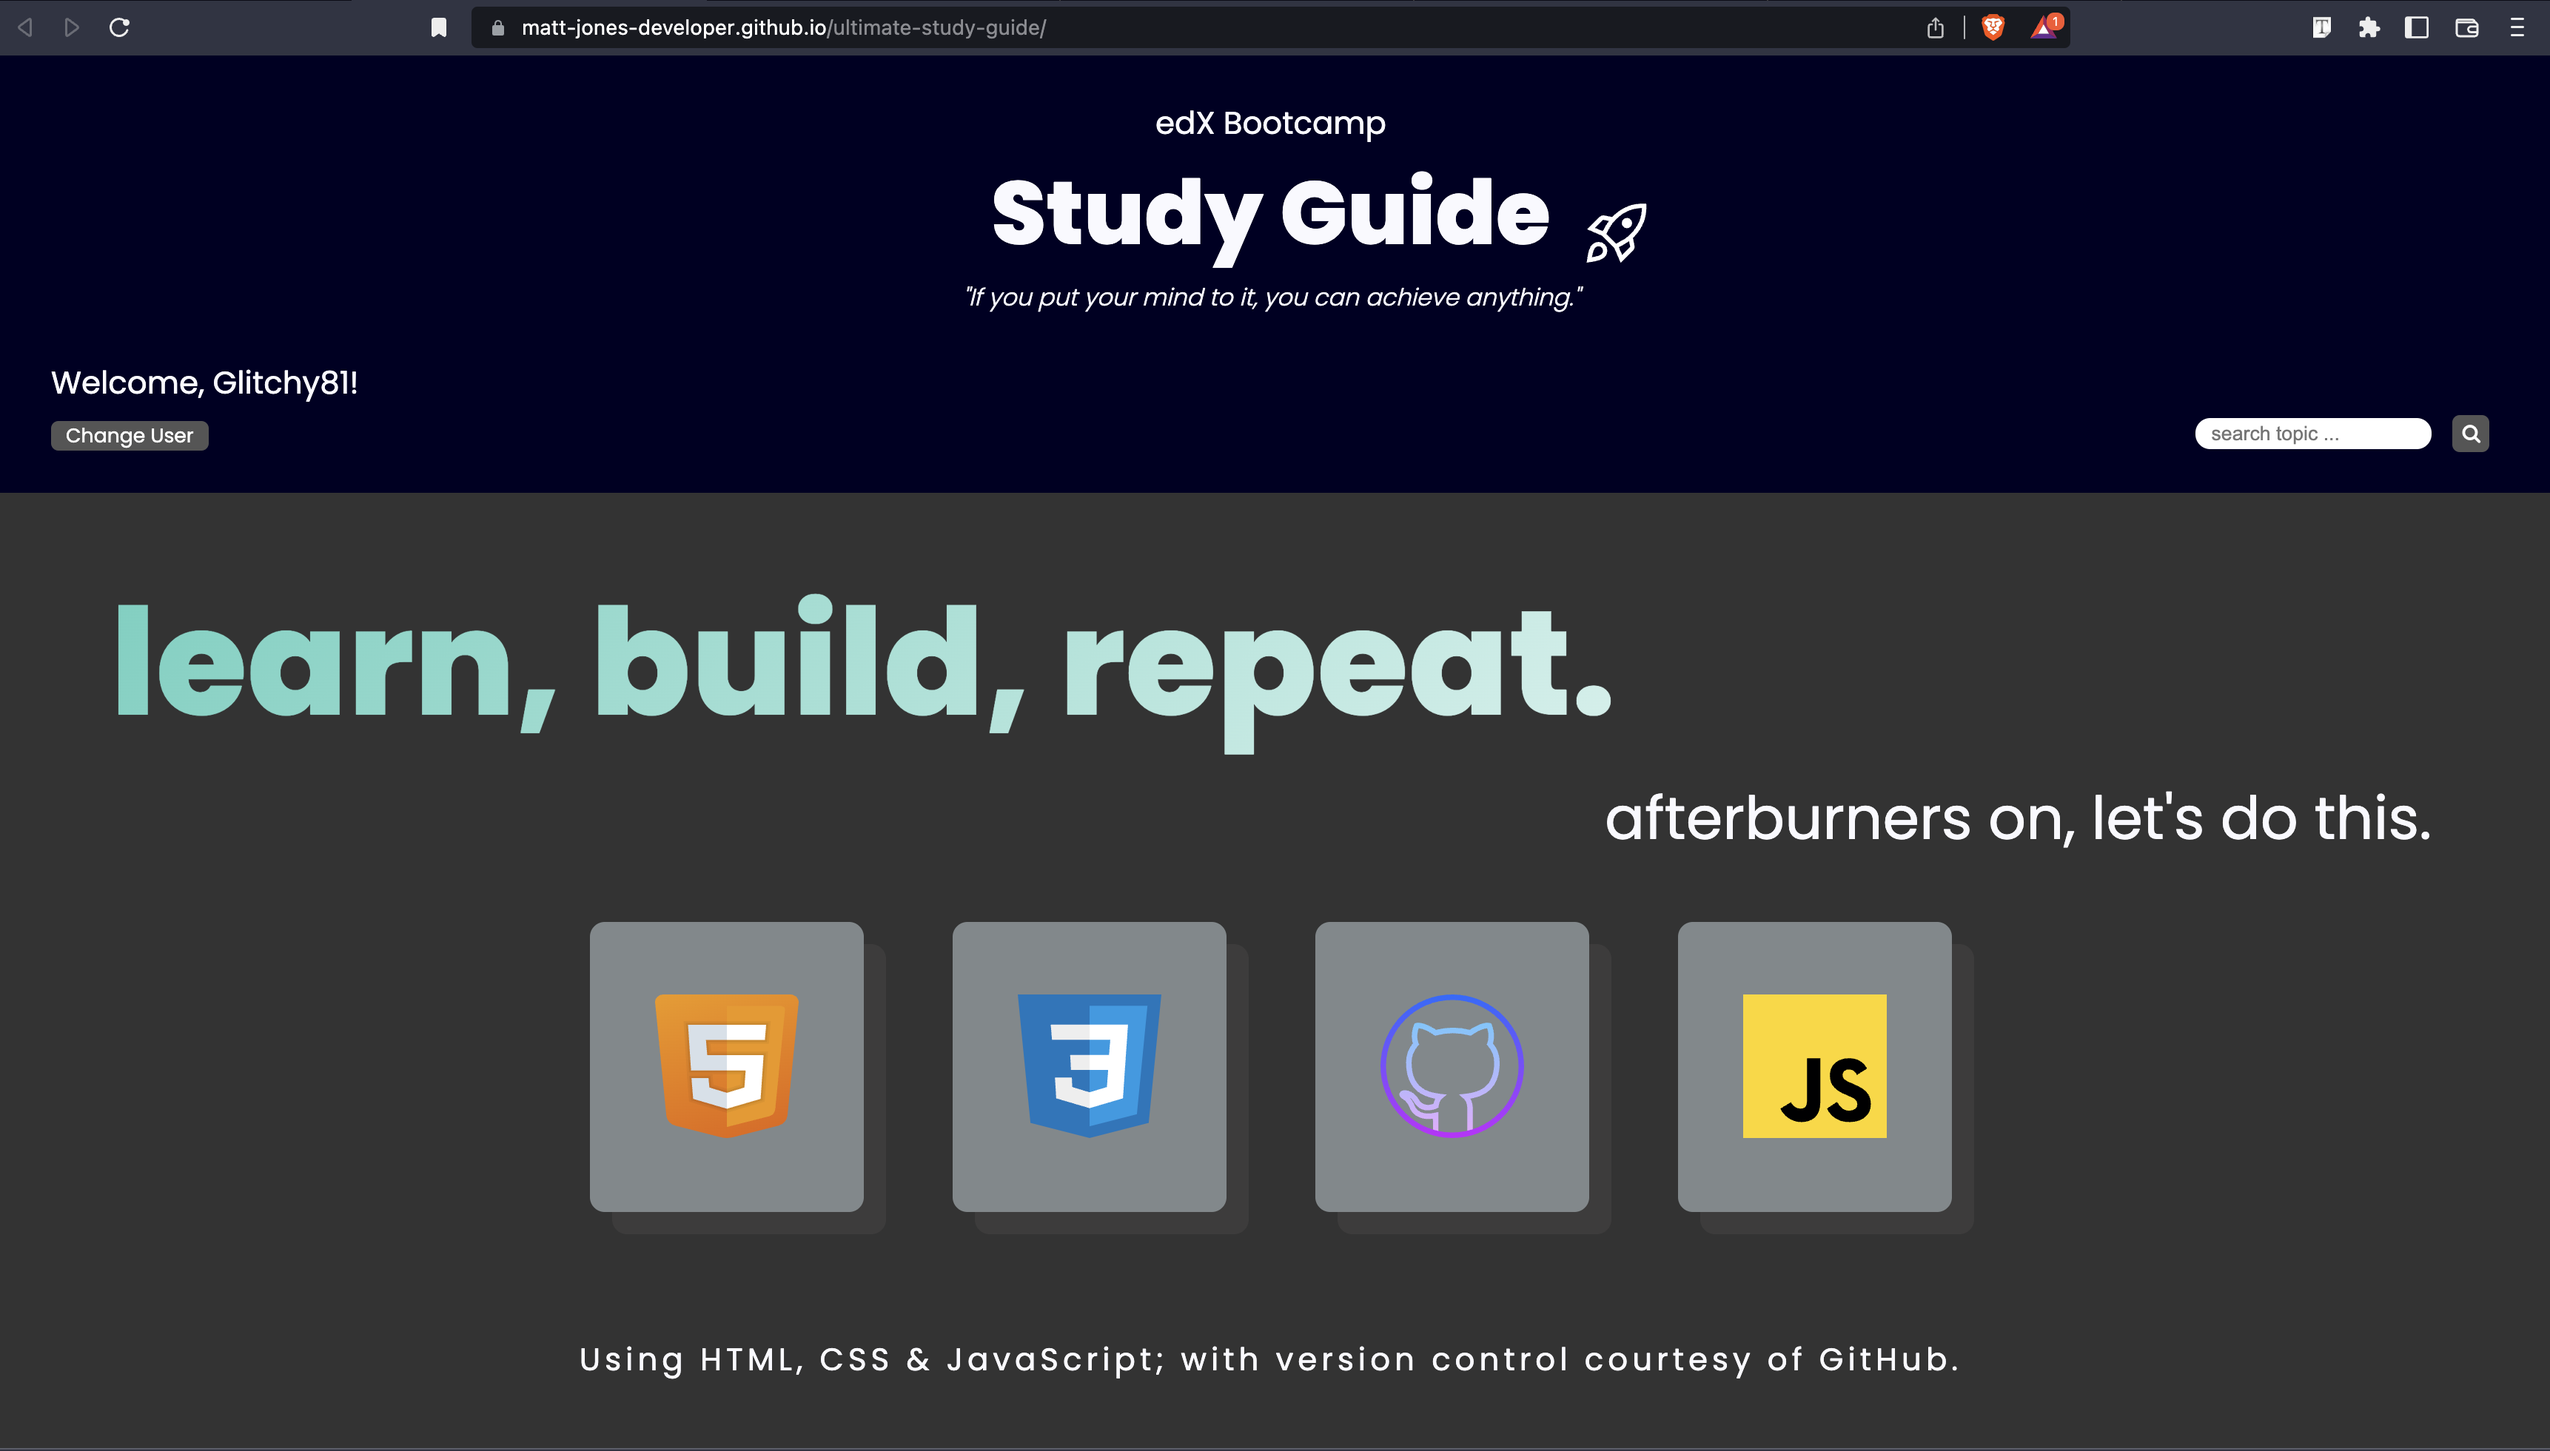
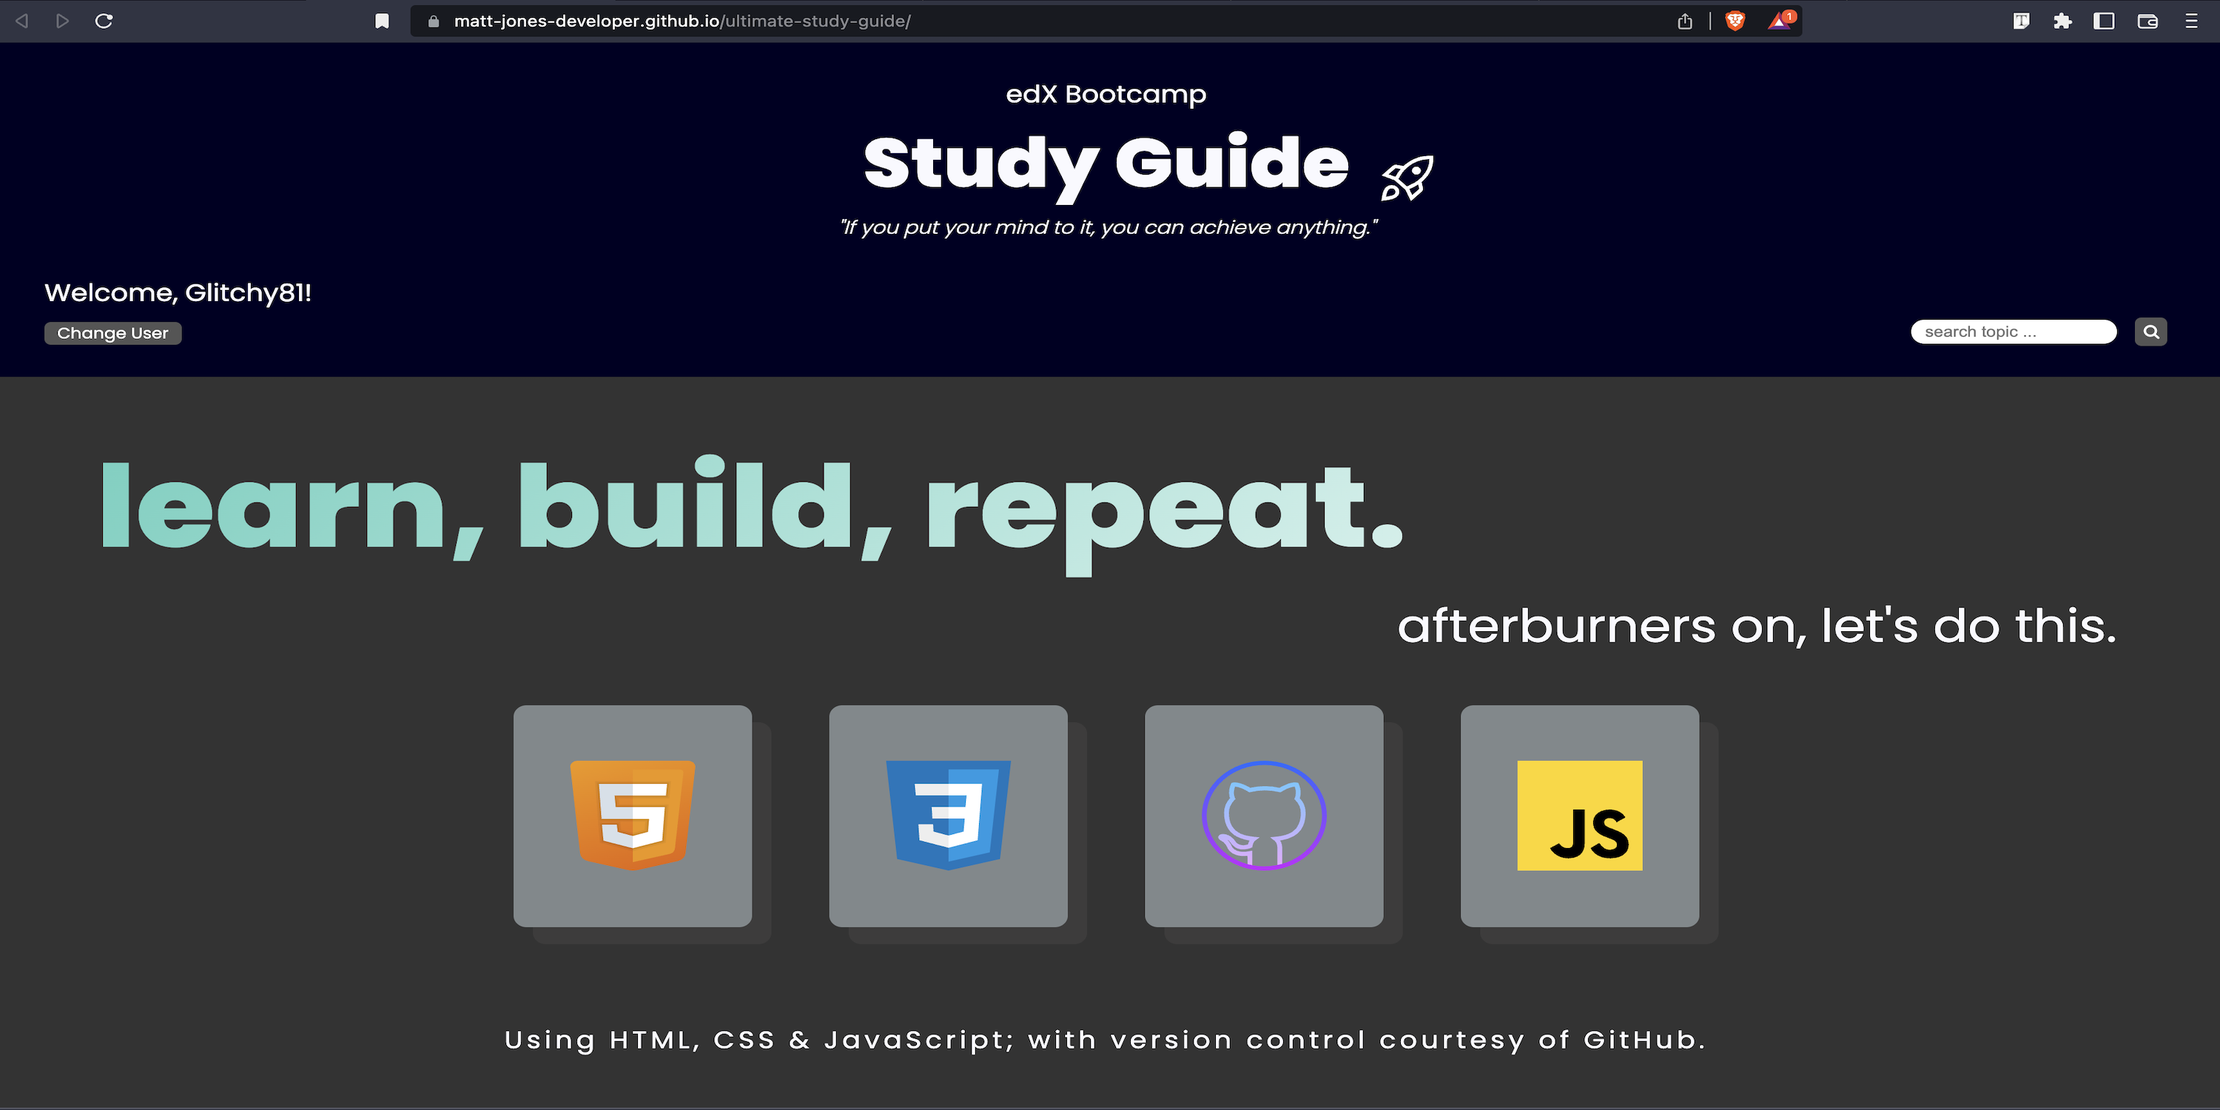
changed image sizes for the cards and started to add the cards for projects page

diff --git a/index.html b/index.html
@@ -332,91 +332,142 @@
                 </div>
                 <!-- end about section -->
             </section>
+            <!-- end fluid container -->
+        </div>
+        <!-- end main body div -Section? -->
+    </div>
+    <!-- projects cols container -->
+    <!-- py-5 px-3 mx-auto -->
 
-            <!-- projects section -->
-            <section class="page-section" id="projects">
-                <h2 class="heading">Projects & Commissions</h2>
-                <!-- project grid as cards -->
-                <br>
-                <div class="project-boxes">
-                    <div class="container">
-                        <!-- projects grid -->
-                        <div class="grid-container">
-                            <!-- project 1: study guide -->
-                            <!-- w2here 2 place FIGURE HERE? -->
-                            <!-- <figure></figure> -->
-                            <!-- or -->
-                            <!-- <figure id="studyguide" class="project-item"></figure> -->
-                            <a href="https://matt-jones-developer.github.io/ultimate-study-guide/" class="project-item" id="studyguide">
-                                <img src="./assets/images/png/screenshots/ultimate_study_guide_screenshot_new.png" alt="studyguide screenshot">
-                                <div class="project-heading">
-                                    Ultimate Study Guide
-                                </div>
-                            </a>
-                            <!-- </figure> -->
-                            <!-- project 2: Rock Paper Knife Python app -->
-                            <!-- <figure id="rpk" class="project-item"></figure> -->
-                            <a href="https://github.com/Matt-Jones-Developer/rock-paper-knife" class="project-item" id="rpk">
-                                <img src="./assets/images/png/screenshots/rock_paper_knife_loader.png" alt="rpk screenshot">
-                                <div class="project-heading">
-                                     Rock, Paper.. KNIFE! - Python game
-                                </div>
-                            </a>
-                            <!-- project 3: Gameboy Assets commission -->
-                            <!-- <figure id="gameboy" class="project-item"></figure> -->
-                            <a href="https://matt-jones-developer.github.io/Gameboy-Builder/" class="project-item" id="gameboy">
-                                <img src="./assets/images/png/screenshots/gameboy_assets_site.png" alt="gameboy screenshot">
-                                <div class="project-heading">
-                                    Game Assets - Commission
-                                </div>
-                            </a>
-                            <!-- project 4: cristal vision website -->
-                            <!-- <figure id="pools" class="project-item"></figure> -->
-                            <a href="https://github.com/Matt-Jones-Developer/cristalvisionpools" class="project-item" id="pools">
-                                <img src="./assets/images/png/screenshots/cristalvision_site.png" alt="cristalvision site screenshot">
-                                <div class="project-heading">
-                                    Cristal Vision Website
-                                </div>
-                            </a>
-                            <!-- project 4: bio-metal page -->
-                            <!-- <figure id="bio" class="project-item"></figure> -->
-                            <a href="https://matt-jones-developer.github.io/Ultimate-Bio/" class="project-item" id="bio">
-                                <img src="./assets/images/png/screenshots/bio-metal.png" alt="bio-metal screenshot">
-                                <div class="project-heading">
-                                    Bio-Metal - Alternative Bio
-                                </div>
-                            </a>
-                            <!-- project 6: Refactoring assignment -->
-                            <!-- <figure id="horiseon" class="project-item"></figure> -->
-                            <a href="https://matt-jones-developer.github.io/Horiseon_code_refactoring/" class="project-item" id="horiseon">
-                                <img src="./assets/images/png/screenshots/horiseon_screenshot.png" alt="horiseon site screenshot">
-                                <div class="project-heading">
-                                    Horiseon Inc. - Refactoring
-                                </div>
-                            </a>
-                            <!-- project 7: take my survey! -->
-                            <!-- <figure id="survey" class="project-item"></figure> -->
-                            <a href="https://matt-jones-developer.github.io/feedback-survey/" class="project-item" id="survey">
-                                <img src="./assets/images/png/screenshots/survey_shot.png" alt="survey screenshot">
-                                <div class="project-heading">
-                                    Take my survey!
-                                </div>
-                            </a>
+    <!-- projects section -->
+    <section class="page-section" id="projects">
+    <h2 class="heading">Projects & Commissions</h2>
+    <!-- project grid as cards -->
+    <br>
+
+    <!-- cards -->
+    <!-- card large full screen  -->
+    <div class="col-12 col-md-6 col-lg-12">
+        <div class="card bg-dark">
+            <div class="card-header">
+                Ultimate Study Guide
+            </div>
+            <div class="card-body">
+                <h5 class="card-title">A revamped study guide that was created before I started the course.</h5>
+                <p class="card-text">Check out the JS searchbar and add your own username feature!</p>
+                <a href="#" class="btn btn-primary">Go somewhere</a>
+            </div>
+        </div>
+    </div>
+    <!-- cards x6 col-4 -> col-6 -> col-12 -->
+
+
+    </section>
+
+    <div class="row">
+        <div class="col-12 col-md-6 col-lg-3">
+            <div class="container-fluid">
+
+                    <div class="project-boxes">
+                        <div class="container">
+                            <!-- projects grid -->
+                            <div class="grid-container">
+                                <!-- project 1: study guide -->
+                                <!-- w2here 2 place FIGURE HERE? -->
+                                <!-- <figure></figure> -->
+                                <!-- or -->
+                                <!-- <figure id="studyguide" class="project-item"></figure> -->
+                                <a href="https://matt-jones-developer.github.io/ultimate-study-guide/"
+                                    class="project-item" id="studyguide">
+                                    <img src="./assets/images/png/screenshots/ultimate_study_guide_screenshot_new.png"
+                                        alt="studyguide screenshot">
+                                    <div class="project-heading">
+                                        Ultimate Study Guide
+                                    </div>
+                                </a>
+                                <!-- </figure> -->
+                                <!-- project 2: Rock Paper Knife Python app -->
+                                <!-- <figure id="rpk" class="project-item"></figure> -->
+                                <a href="https://github.com/Matt-Jones-Developer/rock-paper-knife" class="project-item"
+                                    id="rpk">
+                                    <img src="./assets/images/png/screenshots/rock_paper_knife_loader.png"
+                                        alt="rpk screenshot">
+                                    <div class="project-heading">
+                                        Rock, Paper.. KNIFE! - Python game
+                                    </div>
+                                </a>
+                                <!-- project 3: Gameboy Assets commission -->
+                                <!-- <figure id="gameboy" class="project-item"></figure> -->
+                                <a href="https://matt-jones-developer.github.io/Gameboy-Builder/" class="project-item"
+                                    id="gameboy">
+                                    <img src="./assets/images/png/screenshots/gameboy_assets_site.png"
+                                        alt="gameboy screenshot">
+                                    <div class="project-heading">
+                                        Game Assets - Commission
+                                    </div>
+                                </a>
+                                <!-- project 4: cristal vision website -->
+                                <!-- <figure id="pools" class="project-item"></figure> -->
+                                <a href="https://github.com/Matt-Jones-Developer/cristalvisionpools"
+                                    class="project-item" id="pools">
+                                    <img src="./assets/images/png/screenshots/cristalvision_site.png"
+                                        alt="cristalvision site screenshot">
+                                    <div class="project-heading">
+                                        Cristal Vision Website
+                                    </div>
+                                </a>
+                                <!-- project 4: bio-metal page -->
+                                <!-- <figure id="bio" class="project-item"></figure> -->
+                                <a href="https://matt-jones-developer.github.io/Ultimate-Bio/" class="project-item"
+                                    id="bio">
+                                    <img src="./assets/images/png/screenshots/bio-metal.png" alt="bio-metal screenshot">
+                                    <div class="project-heading">
+                                        Bio-Metal - Alternative Bio
+                                    </div>
+                                </a>
+                                <!-- project 6: Refactoring assignment -->
+                                <!-- <figure id="horiseon" class="project-item"></figure> -->
+                                <a href="https://matt-jones-developer.github.io/Horiseon_code_refactoring/"
+                                    class="project-item" id="horiseon">
+                                    <img src="./assets/images/png/screenshots/horiseon_screenshot.png"
+                                        alt="horiseon site screenshot">
+                                    <div class="project-heading">
+                                        Horiseon Inc. - Refactoring
+                                    </div>
+                                </a>
+                                <!-- project 7: take my survey! -->
+                                <!-- <figure id="survey" class="project-item"></figure> -->
+                                <a href="https://matt-jones-developer.github.io/feedback-survey/" class="project-item"
+                                    id="survey">
+                                    <img src="./assets/images/png/screenshots/survey_shot.png" alt="survey screenshot">
+                                    <div class="project-heading">
+                                        Take my survey!
+                                    </div>
+                                </a>
+                            </div>
                         </div>
                     </div>
-                </div>
-            
-            </section>
-
-            <!-- section: skills -->
-
-            <!-- section: contact -->
-
-
-        <!-- end fluid container -->
+                </section>
+            <!-- end fluid -->
+            </div>
+        <!-- end cols -->
         </div>
-    <!-- end main body div -Section? -->
+    <!-- end row -->
     </div>
+
+
+
+
+    <!-- section: skills -->
+
+    <!-- section: contact -->
+
+
+    <!-- end fluid container -->
+    <!-- should the entire site be wrap in this?  or separately per section? -->
+    <!-- </div> -->
+    <!-- end main body div -Section? -->
+    <!-- </div> -->
 
     <!-- footer -->
 

diff --git a/assets/css/style.css b/assets/css/style.css
@@ -330,37 +330,43 @@ hr {
 
 /* projects section */
 
+/* .page-section {
+    padding: 0 1rem;
+    margin: 1rem auto;
+    border: 1px blue solid;
+  } */
+
 /*  section - projects */
 
-project-boxes .container {
+/* project-boxes .container {
     display: flex;
     justify-content: center;
     align-items: center;
-}
+} */
 
 /* projects grid */
 
-.grid-container {
+/* .grid-container {
+    border: 1px solid red;
     margin: 0 auto;
     display: grid;
     grid-template-columns: 1fr 1fr 1fr;
     grid-template-rows: 500px 300px 300px 300px;
-    gap: 5rem 1rem;
+    gap: .5rem;
     grid-template-areas:
         "studyguide studyguide studyguide"
         "studyguide studyguide studyguide"
         "rpk gameboy pools"
         "bio horiseon survey";
-}
+} */
 
-.project-item img {
-    object-fit: cover;
+/* .project-item img {
+    object-fit:contain;
     width: 100%;
-    height: 300px;
     
-}
+} */
 
-.project-item {
+/* .project-item {
     background-size: cover;
     background-position: center;
     background-repeat: no-repeat;
@@ -370,11 +376,11 @@ project-boxes .container {
     display: grid;
     align-content: end;
 
-}
+} */
 
 /* grid areas */
 
-#studyguide {
+/* #studyguide {
     grid-area: studyguide;
 }
 
@@ -400,7 +406,7 @@ project-boxes .container {
 
 #survey {
     grid-area: survey;
-}
+} */
 
 .project-heading {
     background-color: rgba(0, 0, 0, 0.7);
